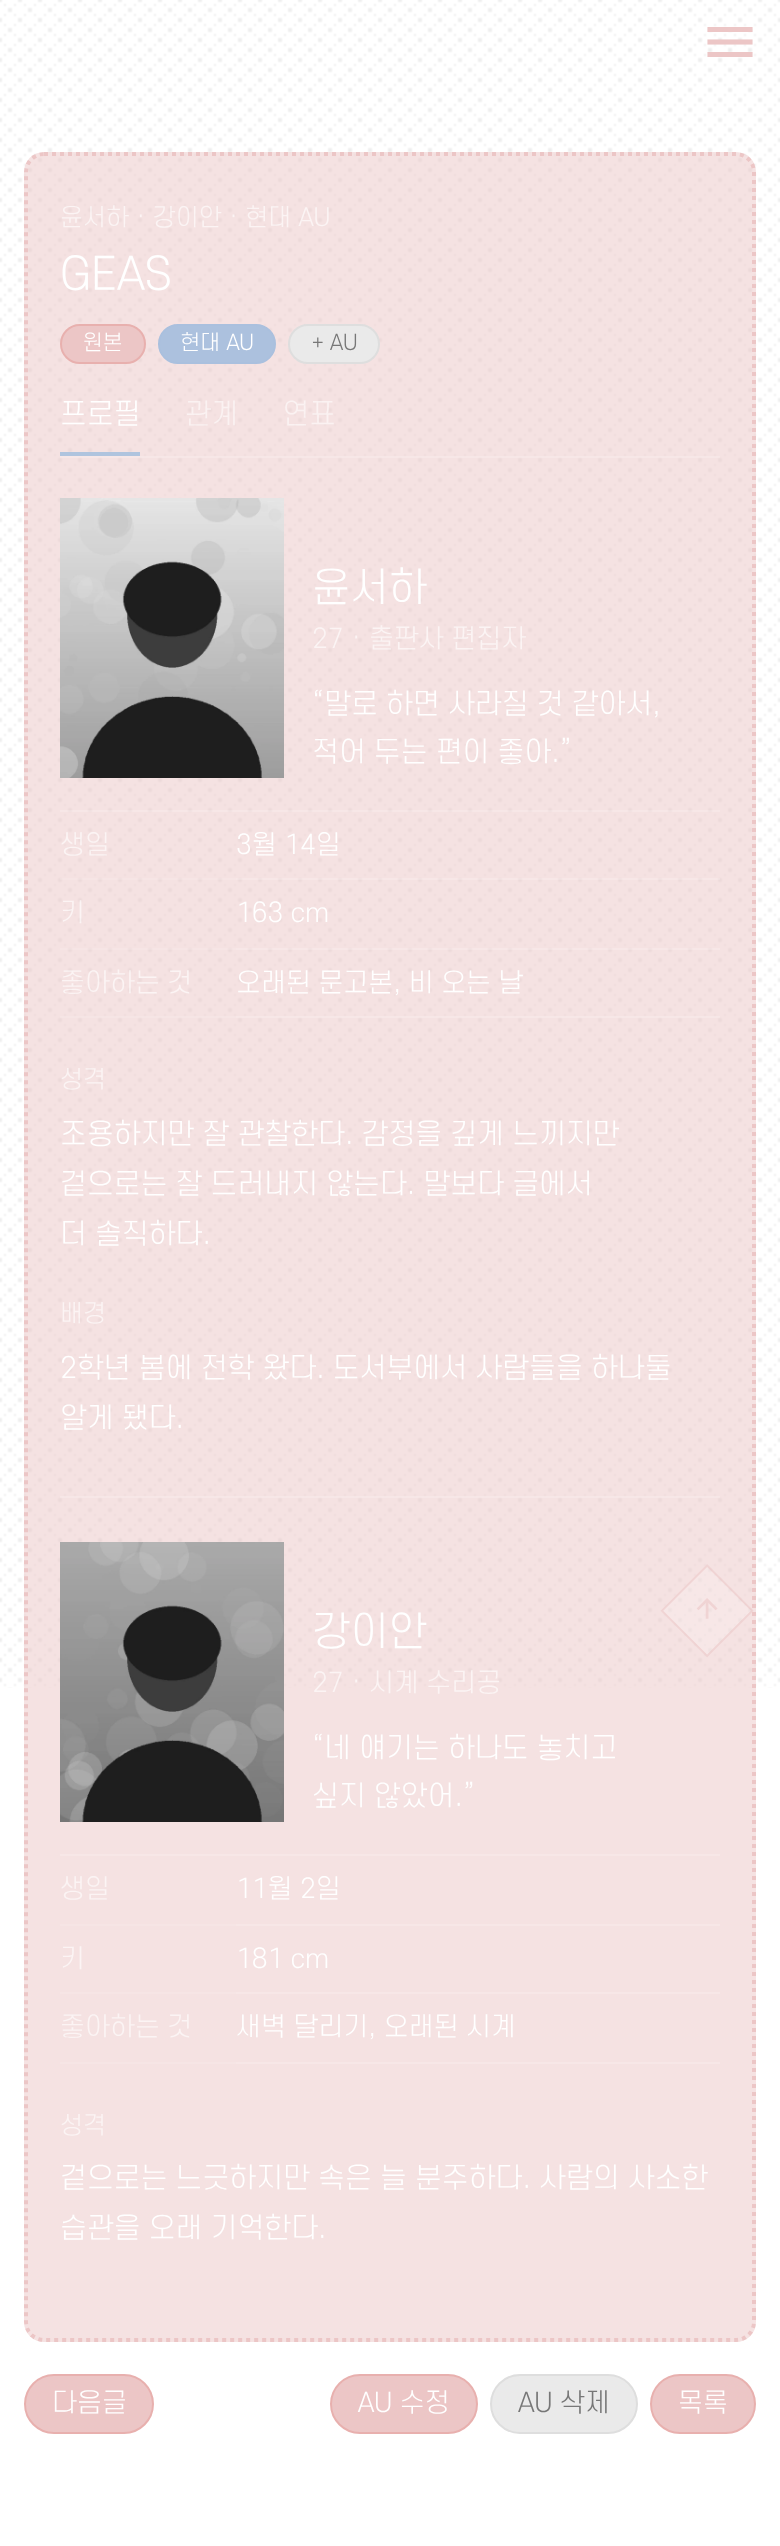
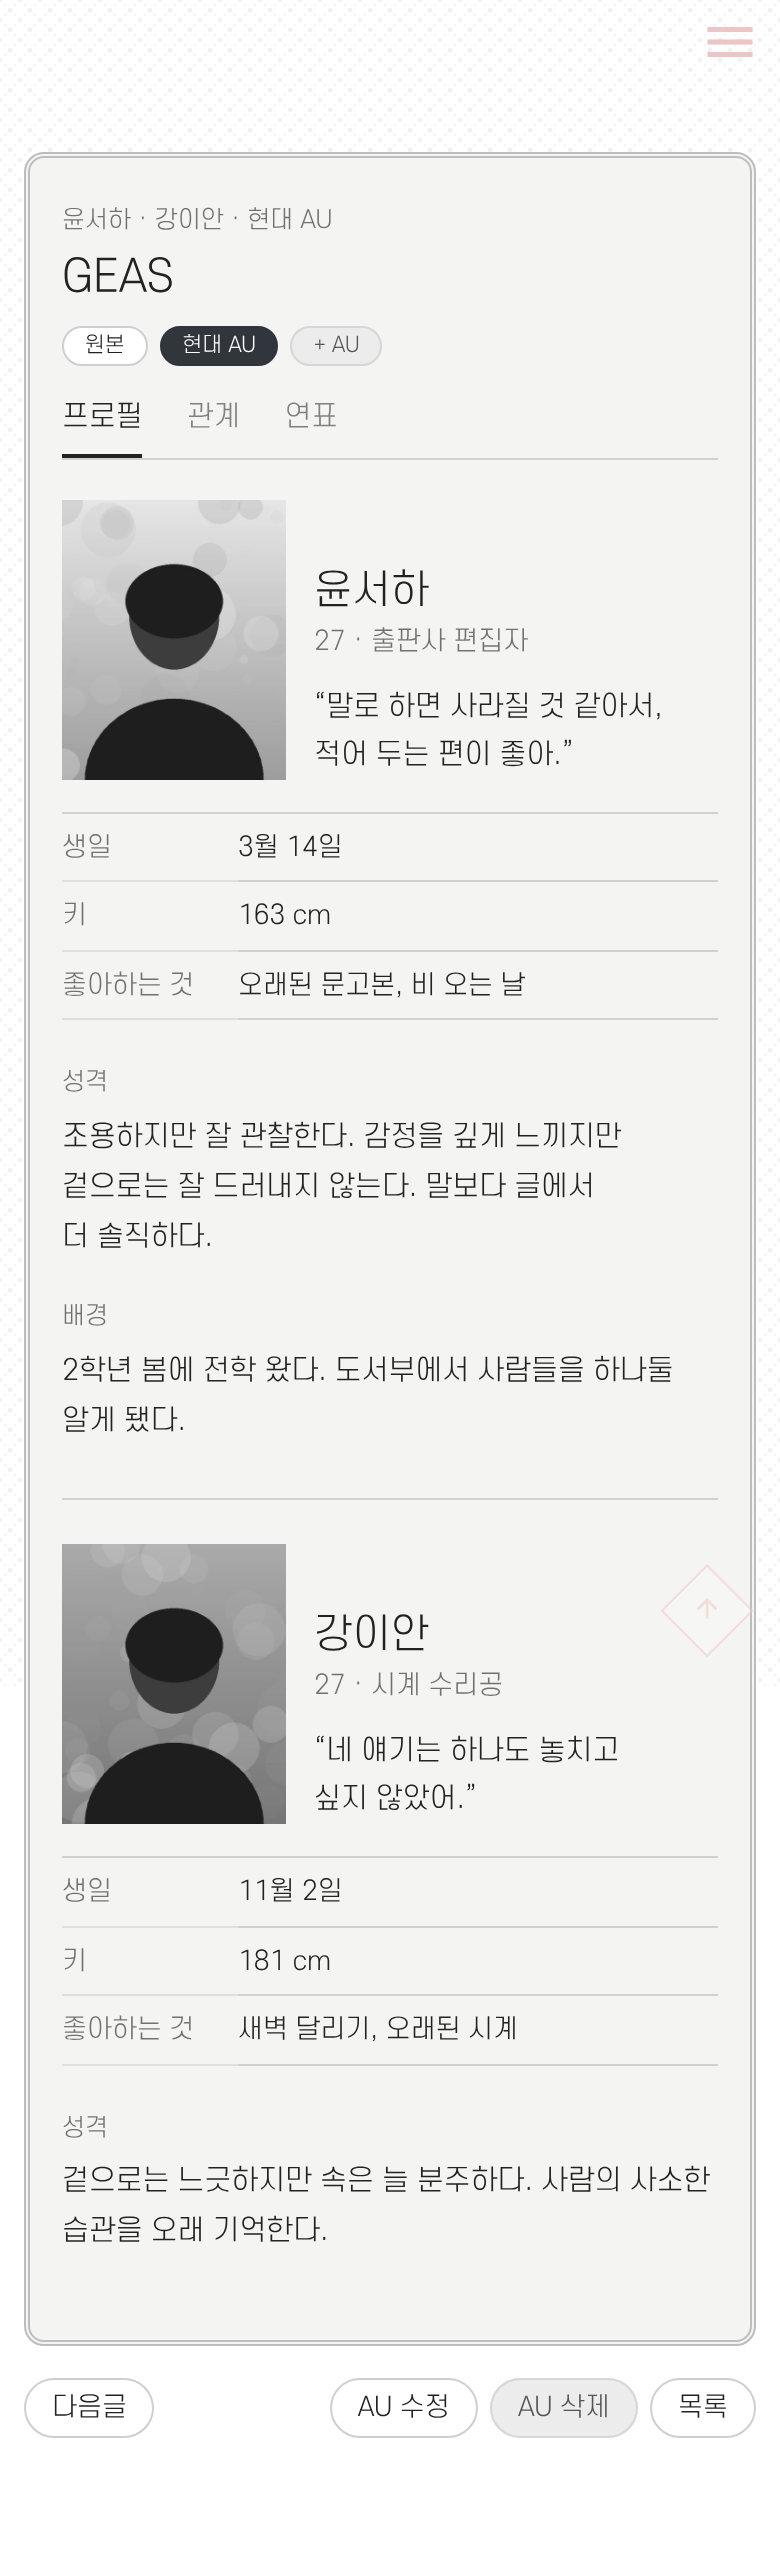
otaku: hide AU count on list cards; monochrome screenshots
Claude-Session: https://claude.ai/code/session_01TeFGFcHs9cs1ZnPBBvHnZj

diff --git a/AvocadoEdition_Light/skin/board/custom_skin/otaku/list.skin.php b/AvocadoEdition_Light/skin/board/custom_skin/otaku/list.skin.php
@@ -3,15 +3,14 @@ if (!defined('_GNUBOARD_')) exit; // 개별 페이지 접근 불가
 include_once __DIR__.'/otaku.lib.php';
 otaku_assets($board_skin_url);
 
-// 원본 글(페어)만 카드로. AU(답글)는 개수만 센다.
+// 원본 글(페어)만 카드로. AU(답글)는 목록에 나오지 않는다.
 $otaku_where = "wr_is_comment = 0 AND wr_reply = ''";
 $otaku_total = (int)(sql_fetch("SELECT COUNT(*) AS n FROM `{$write_table}` WHERE {$otaku_where}")['n'] ?? 0);
 $otaku_rows = max(1, (int)(G5_IS_MOBILE ? $board['bo_mobile_page_rows'] : $board['bo_page_rows']) ?: 12);
 $otaku_pages = max(1, (int)ceil($otaku_total / $otaku_rows));
 $otaku_page = min($otaku_pages, max(1, (int)($_GET['page'] ?? 1)));
-$res = sql_query("SELECT w.wr_id, w.wr_num, w.wr_subject, w.wr_option, w.mb_id,
-        (SELECT COUNT(*) FROM `{$write_table}` a WHERE a.wr_num = w.wr_num AND a.wr_reply <> '' AND a.wr_is_comment = 0) AS au
-    FROM `{$write_table}` w WHERE {$otaku_where} ORDER BY w.wr_num, w.wr_reply LIMIT ".(($otaku_page - 1) * $otaku_rows).", {$otaku_rows}");
+$res = sql_query("SELECT wr_id, wr_num, wr_subject, wr_option, mb_id
+    FROM `{$write_table}` WHERE {$otaku_where} ORDER BY wr_num, wr_reply LIMIT ".(($otaku_page - 1) * $otaku_rows).", {$otaku_rows}");
 $otaku_cards = [];
 while ($row = sql_fetch_array($res)) {
 	$open = otaku_can_read($row);
@@ -44,8 +43,7 @@ $otaku_width = (int)($board['bo_table_width'] ?? 0);
 				</span>
 				<span class="otaku-card-text">
 					<b><?php if (!$c['open'] || strpos($row['wr_option'], 'secret') !== false) { ?><i class="material-icons" aria-hidden="true">lock</i><?php } ?><?=otaku_e($title)?></b>
-					<?php $sub = array_filter([$c['open'] && $c['data']['title'] !== '' ? otaku_e(implode(' · ', array_column($c['data']['people'], 'name'))) : '', (int)$row['au'] ? 'AU '.(int)$row['au'] : '']); ?>
-					<small><?=implode('<span class="otaku-card-sep" aria-hidden="true"> · </span>', $sub)?></small>
+					<small><?=$c['open'] && $c['data']['title'] !== '' ? otaku_e(implode(' · ', array_column($c['data']['people'], 'name'))) : ''?></small>
 				</span>
 			</a>
 		</li>
